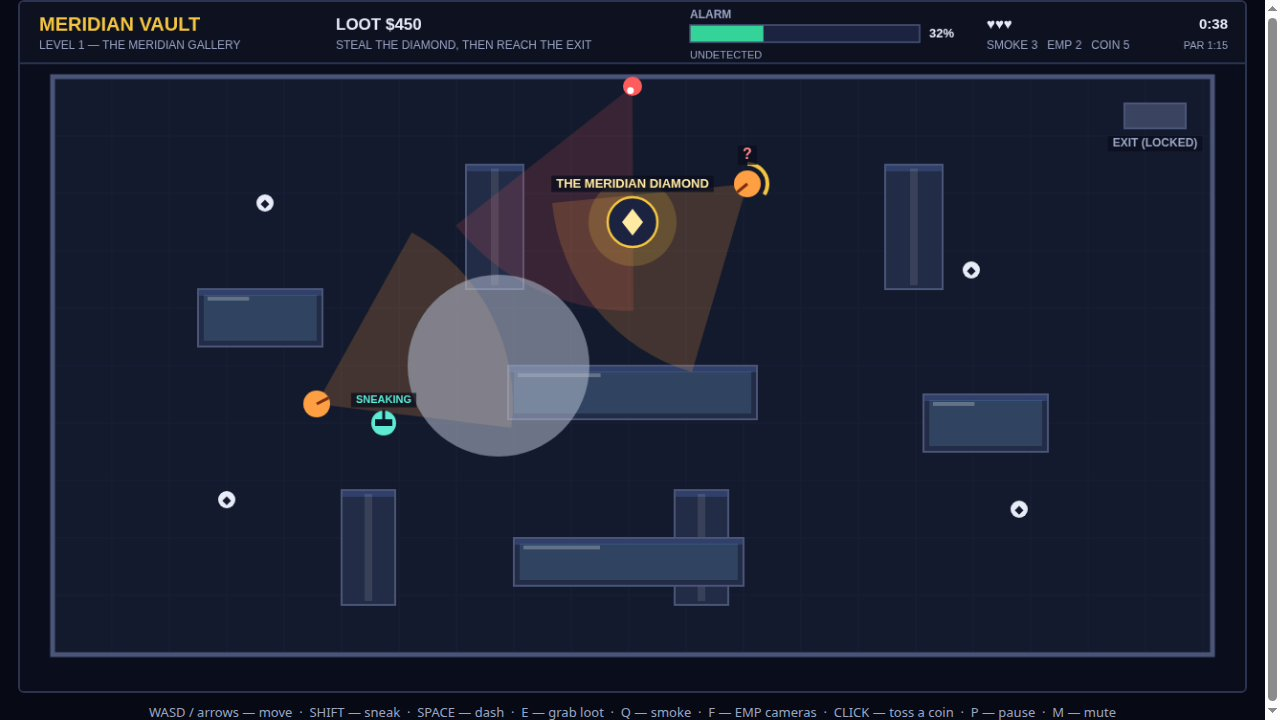
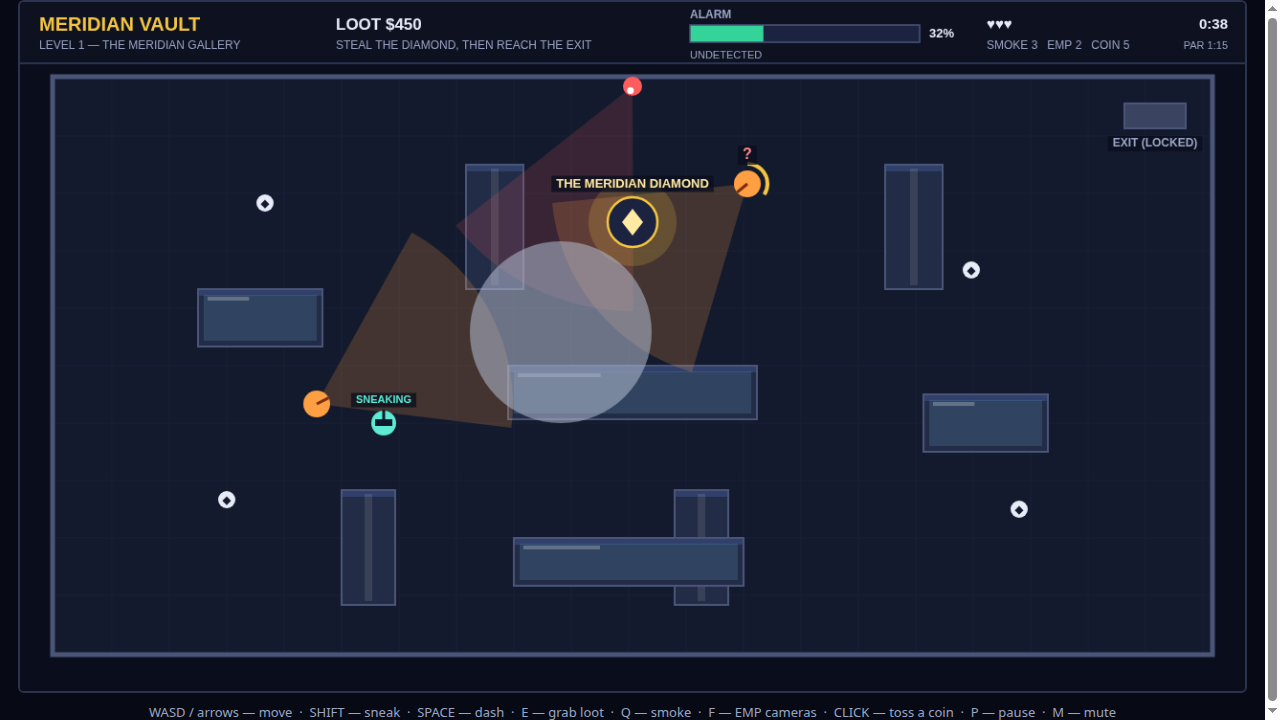
Polish cover shot: smoke cloud off the thief, HUD label cleanup

Changed region(s): [[0.3125, 0.3361, 0.5312, 0.6417]]

diff --git a/game/src/render.js b/game/src/render.js
@@ -260,7 +260,7 @@ export function drawHUD(ctx, state) {
   const ah = 18;
   ctx.fillStyle = COLORS.dim;
   ctx.font = 'bold 12px sans-serif';
-  ctx.fillText('ALARM', ax, ay - 2 + 0);
+  ctx.fillText('ALARM', ax, ay - 2);
   ctx.fillStyle = '#1b2340';
   ctx.fillRect(ax, ay + 8, aw, ah);
   const frac = state.alarm / 100;

diff --git a/game/src/shots.js b/game/src/shots.js
@@ -99,7 +99,7 @@ export function shotState(name) {
     elapsed: 38,
     diamondTaken: false,
     time: 2.1,
-    smokes: [{ x: thief.x + 120, y: thief.y - 60, r: 95, time: 2 }],
+    smokes: [{ x: thief.x + 185, y: thief.y - 95, r: 95, time: 2 }],
     seen: false,
   };
 }
